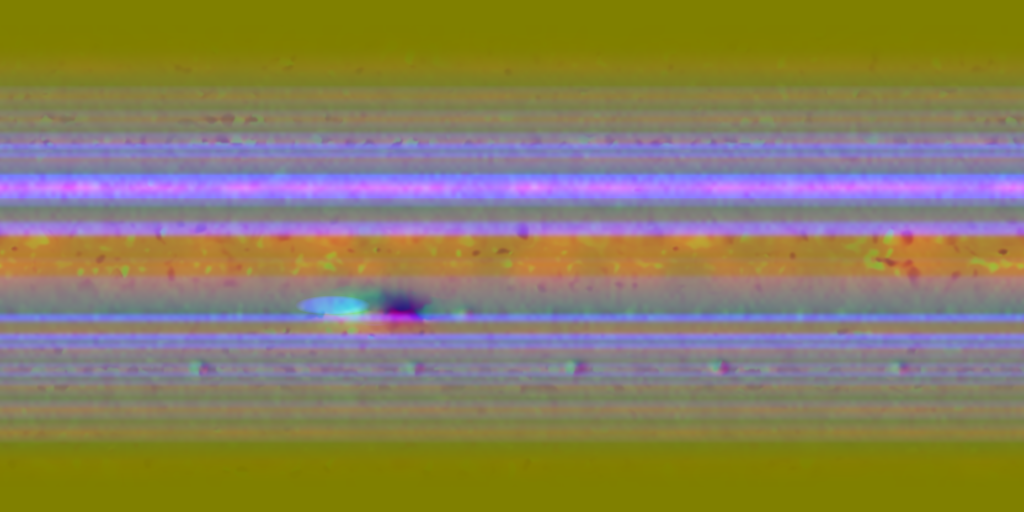
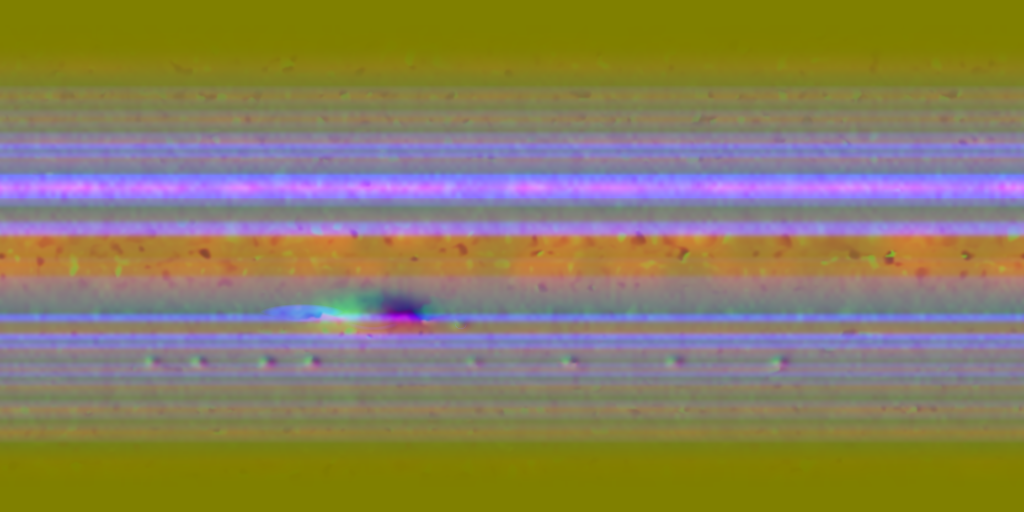
Gas giant albedo: Cassini PIA07782 map at 3600x1800 replaces the Solar System Scope copy; import crop option; vortices re-placed

diff --git a/tools/bake-flow-map.py b/tools/bake-flow-map.py
@@ -18,8 +18,9 @@ invisible. The winds decide the speed and the sign:
                 approximately (within about 15 m/s) from the Cassini profile
                 in Porco et al. 2003 (Science 299) and Voyager's in Limaye
                 1986 (Icarus 65), plus hand-placed vortices for this albedo
-                (the Great Red Spot and the ovals, anticyclones that turn
-                anticlockwise in the southern hemisphere). Where the picture
+                (Cassini's December 2000 map, PIA07782: the Great Red Spot
+                and the white ovals, anticyclones that turn anticlockwise in
+                the southern hemisphere). Where the picture
                 has no clear contour (a blank zone) the flow is the guide.
   alignment     the contour direction, oriented to agree with the guide, at
                 the guide's speed. Around a vortex the contours are its own
@@ -69,19 +70,22 @@ ZONAL_PROFILE = [
 # of longitude and latitude, rim speed in m/s, and the sense of rotation seen
 # from above (+1 anticlockwise, the southern anticyclones).
 VORTICES = [
-    {"name": "Great Red Spot", "u": .3662, "v": .6074, "a": 9.0, "b": 4.6, "speed": 110, "sense": +1},
-    {"name": "oval east of the Spot", "u": .4551, "v": .6123, "a": 2.0, "b": 1.6, "speed": 45, "sense": +1},
-    # The string of white ovals at 39 S.
-    {"name": "white oval 1", "u": .195, "v": .718, "a": 1.8, "b": 1.4, "speed": 50, "sense": +1},
-    {"name": "white oval 2", "u": .405, "v": .718, "a": 1.8, "b": 1.4, "speed": 50, "sense": +1},
-    {"name": "white oval 3", "u": .562, "v": .716, "a": 1.8, "b": 1.4, "speed": 50, "sense": +1},
-    {"name": "white oval 4", "u": .703, "v": .718, "a": 1.8, "b": 1.4, "speed": 50, "sense": +1},
-    {"name": "white oval 5", "u": .879, "v": .718, "a": 1.8, "b": 1.4, "speed": 50, "sense": +1},
+    {"name": "Great Red Spot", "u": .3643, "v": .615, "a": 10.0, "b": 4.7, "speed": 110, "sense": +1},
+    {"name": "oval east of the Spot", "u": .450, "v": .634, "a": 1.8, "b": 1.4, "speed": 45, "sense": +1},
+    # The string of white ovals at 37 S.
+    {"name": "white oval 1", "u": .149, "v": .707, "a": 1.6, "b": 1.3, "speed": 50, "sense": +1},
+    {"name": "white oval 2", "u": .195, "v": .707, "a": 1.6, "b": 1.3, "speed": 50, "sense": +1},
+    {"name": "white oval 3", "u": .261, "v": .707, "a": 1.6, "b": 1.3, "speed": 50, "sense": +1},
+    {"name": "white oval 4", "u": .305, "v": .707, "a": 1.6, "b": 1.3, "speed": 50, "sense": +1},
+    {"name": "white oval 5", "u": .464, "v": .707, "a": 1.6, "b": 1.3, "speed": 50, "sense": +1},
+    {"name": "white oval 6", "u": .557, "v": .707, "a": 1.6, "b": 1.3, "speed": 50, "sense": +1},
+    {"name": "white oval 7", "u": .659, "v": .707, "a": 1.6, "b": 1.3, "speed": 50, "sense": +1},
+    {"name": "white oval 8", "u": .762, "v": .707, "a": 1.6, "b": 1.3, "speed": 50, "sense": +1},
 ]
 
 # Turbulent wakes: texture centre, half-size in texture units, weight.
 WAKES = [
-    {"name": "Red Spot wake", "u": .325, "v": .597, "ru": .040, "rv": .022, "weight": .9},
+    {"name": "Red Spot wake", "u": .295, "v": .612, "ru": .045, "rv": .020, "weight": .9},
 ]
 
 
@@ -121,7 +125,7 @@ def sample_bilinear(field, x, y):
     height, width = field.shape
     x = np.mod(x, width)
     y = np.clip(y, 0.0, height - 1.001)
-    x0 = np.floor(x).astype(np.int32)
+    x0 = np.mod(np.floor(x).astype(np.int32), width)  # float32 mod can land exactly on the width
     y0 = np.floor(y).astype(np.int32)
     fx = (x - x0).astype(np.float32)
     fy = (y - y0).astype(np.float32)

diff --git a/docs/ASSETS.md b/docs/ASSETS.md
@@ -6,7 +6,7 @@ The runtime textures live in `assets/materials/` as PNG files and are tracked in
 
 ## Sources and licensing
 
-Solar System Scope's Earth day, cloud and night maps are 8192x4096 upstream and stored at 4096x2048. The official `8k_jupiter.jpg` endpoint supplies a 4096x2048 image, stored at 2048x1024: its JPEG block artefacts show at 4K once the surface is magnified, and the surface shader adds procedural turbulence at that scale instead. `gas_flow.png` is not downloaded but baked from it by `tools/bake-flow-map.py`: a wind map (east and south flow in texture units per second, plus a turbulence weight) from the measured zonal jet profile (Porco et al. 2003, Limaye 1986), hand-placed vortices for this albedo and shear-weighted curl noise, along which the surface shader advects the cloud deck. `gas_detail.png` (4096x2048, grayscale) is baked by the same tool: three octaves of noise integrated along the wind's streamlines, so the fine structure the shader adds at magnification is filaments that run with the flow. The Earth normal/specular maps are 2K and stored losslessly, and the Mars colour map is 8K stored at 4K. These maps are licensed CC BY 4.0 and are derived from spacecraft imagery and NASA Blue Marble/geodata. Credit: **Solar System Scope — https://www.solarsystemscope.com/textures/**. Poly Haven's 2K **Worn Rock Natural 01** (photography by Dimitrios Savva, processing by Rob Tuytel), **Rock Face 03** and **Rock Boulder Dry** (Rob Tuytel) sets are CC0; each contributes an albedo (desaturated 40 percent at import, since the scans are warm tan and asteroids are greyer), a normal map packed with its displacement in alpha by `tools/pack-normal-height.py`, and a roughness map. Keep the attribution with any redistribution.
+Solar System Scope's Earth day, cloud and night maps are 8192x4096 upstream and stored at 4096x2048. The gas giant is Cassini's December 2000 cylindrical map of Jupiter (NASA/JPL/Space Science Institute, Photojournal PIA07782, public domain; credit "NASA/JPL/Space Science Institute"), 10 px per degree with full latitude coverage, stored at 3600x1800 after cropping the repeated wrap column and pole row; its colour is reconstructed from the 750 and 451 nm filters. It replaced Solar System Scope's Jupiter, which turned out to be a softened, recoloured copy of the same map at 2048 wide. `gas_flow.png` is not downloaded but baked from it by `tools/bake-flow-map.py`: a wind map (east and south flow in texture units per second, plus a turbulence weight) from the measured zonal jet profile (Porco et al. 2003, Limaye 1986), hand-placed vortices for this albedo and shear-weighted curl noise, along which the surface shader advects the cloud deck. `gas_detail.png` (4096x2048, grayscale) is baked by the same tool: three octaves of noise integrated along the wind's streamlines, so the fine structure the shader adds at magnification is filaments that run with the flow. The Earth normal/specular maps are 2K and stored losslessly, and the Mars colour map is 8K stored at 4K. The Solar System Scope maps are licensed CC BY 4.0 and are derived from spacecraft imagery and NASA Blue Marble/geodata. Credit: **Solar System Scope — https://www.solarsystemscope.com/textures/**. NASA/JPL images may be used for any purpose with credit (https://www.jpl.nasa.gov/jpl-image-use-policy/). Poly Haven's 2K **Worn Rock Natural 01** (photography by Dimitrios Savva, processing by Rob Tuytel), **Rock Face 03** and **Rock Boulder Dry** (Rob Tuytel) sets are CC0; each contributes an albedo (desaturated 40 percent at import, since the scans are warm tan and asteroids are greyer), a normal map packed with its displacement in alpha by `tools/pack-normal-height.py`, and a roughness map. Keep the attribution with any redistribution.
 
 The Moon colour map and both elevation models are NASA public-domain data. `moon_albedo` is the 4K LROC colour mosaic and `moon_normal` is baked from the 16 pixel-per-degree LOLA elevation model, both from the **NASA/GSFC Scientific Visualization Studio CGI Moon Kit (https://svs.gsfc.nasa.gov/4720)**. `mars_normal` is baked from the Mars Global Surveyor **MOLA MEGDR** 16 pixel-per-degree grid served by the PDS Geosciences Node. The baked maps hold a tangent-space normal (red east, green south, matching the Earth map's convention) with the height stored in alpha, normalised over the range recorded in the manifest; slopes are exaggerated 1.5x because at 4K a texel spans several kilometres. Phobos and Deimos are rendered as seeded rocks with the scanned rock materials; no global mosaics of usable resolution are freely available for them.
 

diff --git a/docs/DECISIONS.md b/docs/DECISIONS.md
@@ -160,3 +160,4 @@ demo now builds and renders on the Linux PC. Setup and repeatable commands are i
 - Post effects are panel tweakables (a Post FX section) carried in two frame float4s: bloom on/off, intensity (0.24), threshold and knee, chromatic aberration scale, vignette (0.17) and grain (0.010). Off, the two bloom passes are skipped and the composite does not read the halo image, so its stale content is harmless. Defaults reproduce the previous look; verified against captures of the moon, dawn and belt views (differences within the temporal grain, at most 6 levels).
 - The gas giant's cloud deck is animated by flow-map advection instead of a noise warp. tools/bake-flow-map.py bakes gas_flow.png (1024x512, east and south flow in texture units per second at real wind speed, plus a turbulence weight) from the albedo: the measured zonal jet profile (Porco et al. 2003, Limaye 1986, read to about 15 m/s) and hand-placed vortices (the Red Spot at 21.5 S in this map, the ovals) make a guide field; the surface shader displaces the albedo backwards along the flow in two phases half a cycle apart, each resetting before its displacement smears, a triangle weight handing over between them and a per-region phase offset keeping the resets from lining up. A first bake used the guide field directly and failed: displacements of a dozen texels across cloud features made the two phases blend a doubled, smeared Spot, and the bands turned to mush. The direction now comes from the picture itself, a structure tensor's contour direction (the orientation along which the image changes least) oriented by the guide and driven at its speed, so every feature slides along its own contour and the shear on either side of a vortex turns its rings the right way; the guide is used as is only where the picture has no contour, and cross-contour curl noise is kept small (8 m/s) and confined by the shear weight. The slot is the 41st texture (the fork's descriptor count follows), the map is optional at load (a neutral map and a warning when absent), and a Gas giant panel section holds the switch back to the warp, the wind speed (1500x real), the cycle (12 s) and the turbulence. Surface pass in the Jupiter view: 0.99 ms against 0.95.
 - Close-up detail on the gas giant is baked, flow-aligned filaments rather than isotropic noise: tools/bake-flow-map.py also writes gas_detail.png (4096x2048, grayscale), three octaves of noise integrated along the wind map's streamlines (line integral convolution, each octave at the resolution its scale needs) and normalised to standard deviations. The shader multiplies it into the albedo at magnification, on the advected coordinate, at 0.11 per standard deviation, and keeps only the finest isotropic octave beyond the 4K the map holds. Real cloud detail is filaments drawn out along the wind, and around the vortices the streamlines are their rings, so the Spot gains a spiral texture that the painted map lacks. The map is the 42nd texture slot, optional like the flow map (flat when absent). The read replaces a three-octave noise call, so the surface pass in the Jupiter view at 1080p gets cheaper: 0.90 ms against 0.99 with the flow map alone and 0.95 before either.
+- The gas giant's albedo is Cassini's December 2000 cylindrical map (NASA/JPL/Space Science Institute, Photojournal PIA07782, public domain), 3600x1800 after cropping the TIFF's repeated wrap column and pole row. A survey of free global Jupiter maps (Cassini PIA07782; Hubble OPAL 2015 to 2025 from STScI, NASA SVS and ESA/Hubble; JunoCam perijove maps; Commons derivatives) found none with more real detail than 3600 wide, and found that the Solar System Scope map used until now is a softened, recoloured copy of the Cassini map at 2048. So the switch keeps the picture, the vortex placements and the look, and gains 1.75x real resolution with full latitude coverage and a clean wrap. The OPAL maps show the 2024 planet but in narrow-band false colour with the poles missing; the ESA 7200 px map is an upscale with a seam and a cut at 80 degrees; Björn Jónsson's maps are non-commercial. The import script gained a crop option for sources that repeat their wrap column, the bake tool's vortex list was re-read from the new map, and the magnification constant follows the new texel count. The bake tool's bilinear read also wraps its integer index, since float32 modulo can land exactly on the width.

diff --git a/README.md b/README.md
@@ -64,4 +64,4 @@ F12 opens the control panel (`--ui` opens it at start), which holds frame statis
 
 ## License
 
-The demo is released under the [MIT License](LICENSE). NoGraphicsAPI is MIT licensed (`third_party/NoGraphicsAPI/LICENSE`); Dear ImGui is MIT (`third_party/imgui/LICENSE.txt`); the SMAA lookup tables and reference shader are MIT-style (`third_party/smaa/LICENSE.txt`); Wuffs is Apache-2.0 OR MIT (`third_party/wuffs/LICENSE`) and stb_image_write is public domain (`third_party/stb/LICENSE`). Material textures are CC BY 4.0 (Solar System Scope) and CC0 (Poly Haven); provenance, hashes and attribution requirements are in [docs/ASSETS.md](docs/ASSETS.md) and `assets/materials/manifest.json`. Keep attribution with redistributed assets.
+The demo is released under the [MIT License](LICENSE). NoGraphicsAPI is MIT licensed (`third_party/NoGraphicsAPI/LICENSE`); Dear ImGui is MIT (`third_party/imgui/LICENSE.txt`); the SMAA lookup tables and reference shader are MIT-style (`third_party/smaa/LICENSE.txt`); Wuffs is Apache-2.0 OR MIT (`third_party/wuffs/LICENSE`) and stb_image_write is public domain (`third_party/stb/LICENSE`). Material textures are CC BY 4.0 (Solar System Scope), public domain NASA (the Cassini Jupiter map, the Moon and Mars elevation and colour data) and CC0 (Poly Haven); provenance, hashes and attribution requirements are in [docs/ASSETS.md](docs/ASSETS.md) and `assets/materials/manifest.json`. Keep attribution with redistributed assets.
